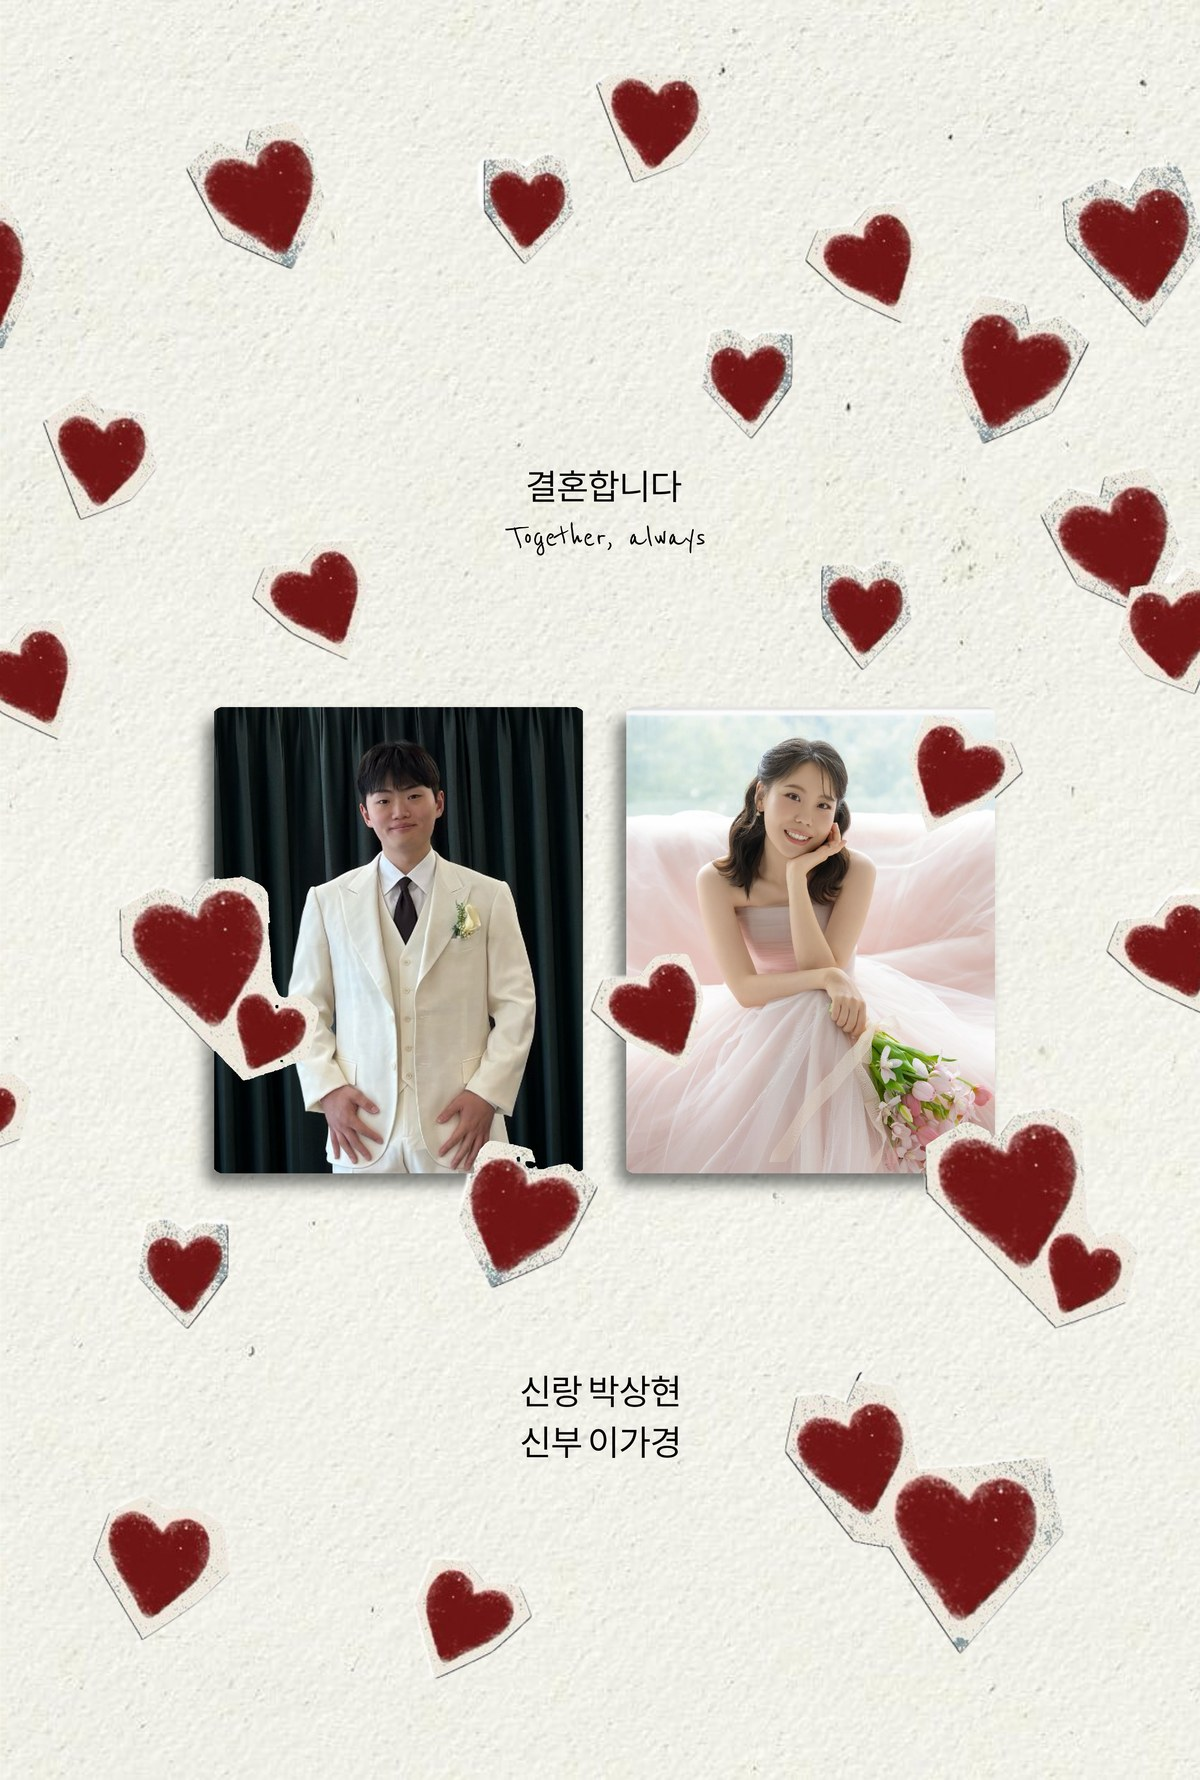
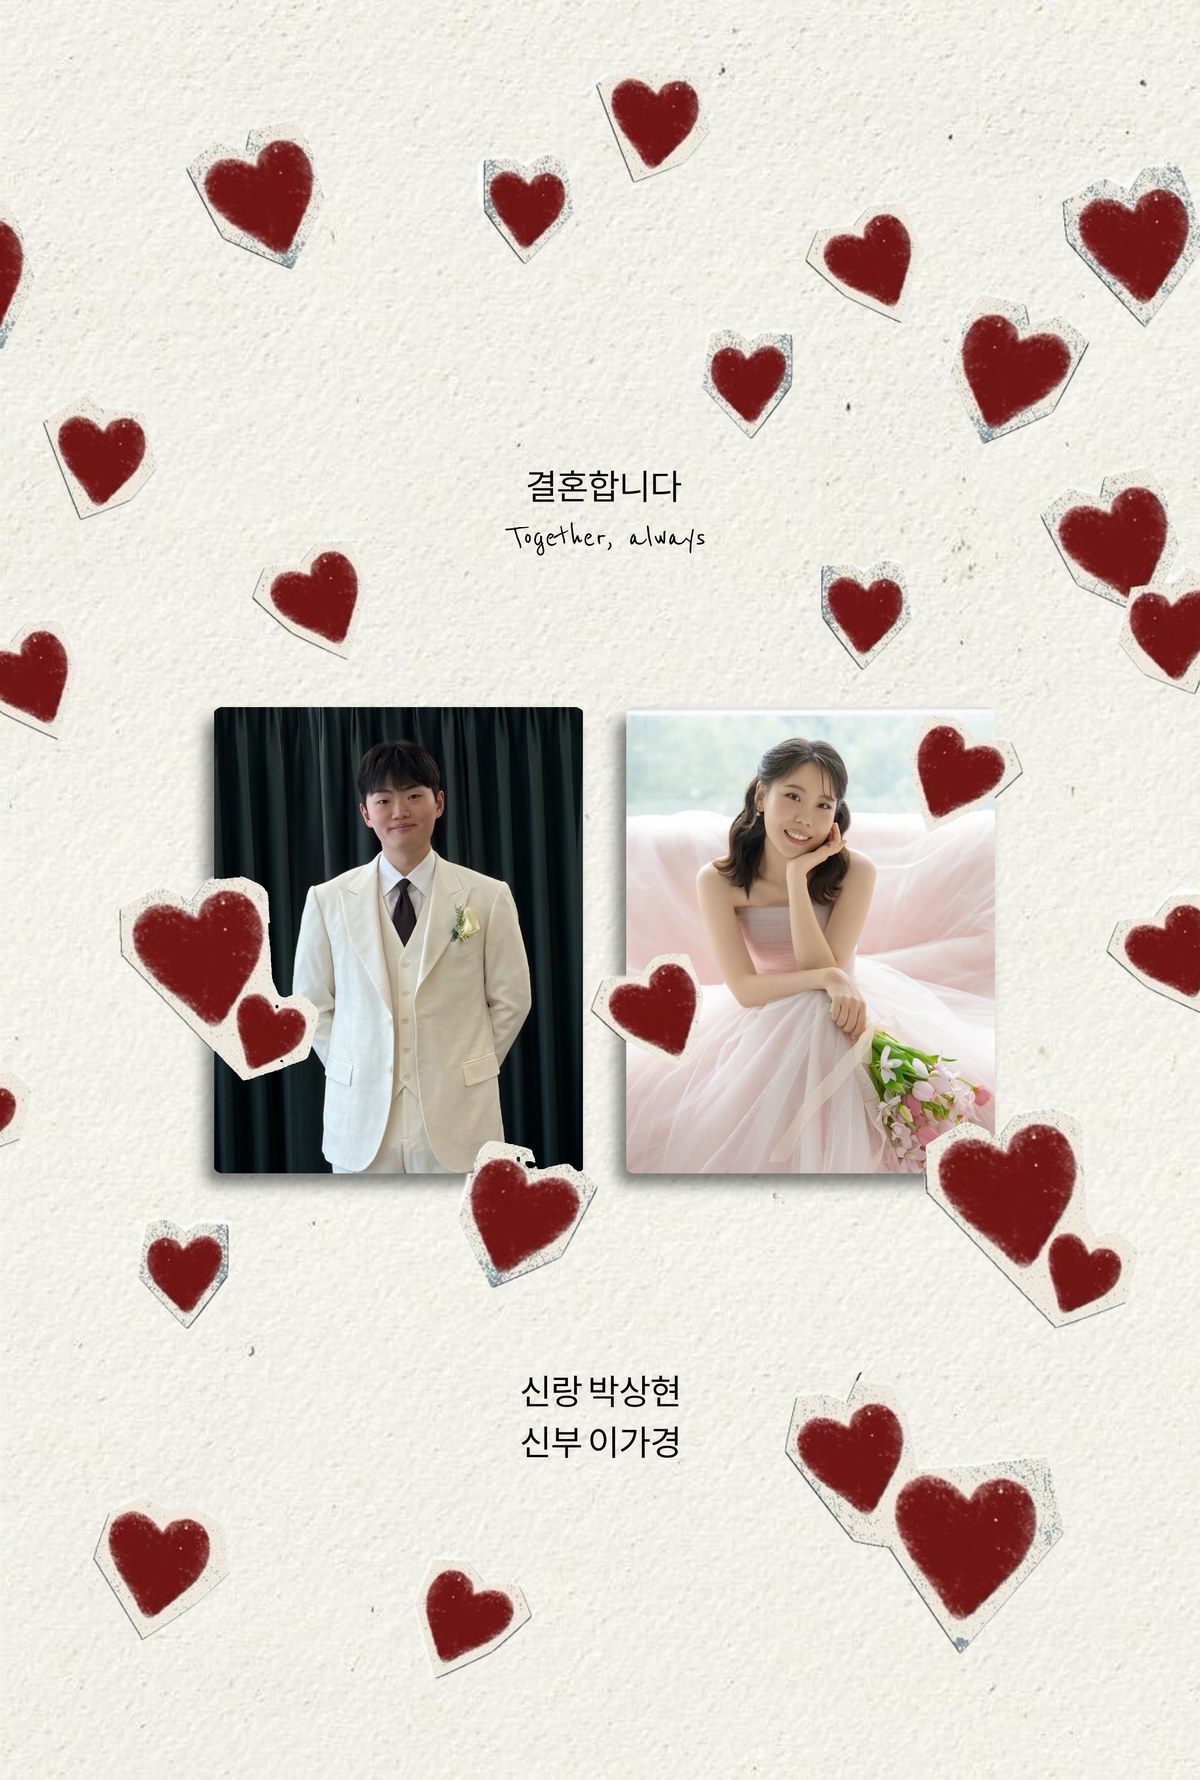
Change groom cover pose to hands behind back

diff --git a/index.html b/index.html
@@ -7,7 +7,7 @@
   <title>박상현 ♥ 이가경 결혼합니다</title>
   <meta property="og:title" content="박상현 ♥ 이가경 결혼합니다">
   <meta property="og:description" content="2027년 2월 13일 토요일 낮 12시 10분">
-  <meta property="og:image" content="img/cover.jpg?v=34">
+  <meta property="og:image" content="img/cover.jpg?v=35">
   <link rel="preconnect" href="https://fonts.googleapis.com">
   <link rel="preconnect" href="https://fonts.gstatic.com" crossorigin>
   <link
@@ -29,7 +29,7 @@
 
     <!-- 1. 인트로 -->
     <section class="intro" id="intro">
-      <img src="img/cover.jpg?v=34" alt="박상현 이가경 결혼합니다">
+      <img src="img/cover.jpg?v=35" alt="박상현 이가경 결혼합니다">
     </section>
 
     <!-- 2. Our Wedding day -->
